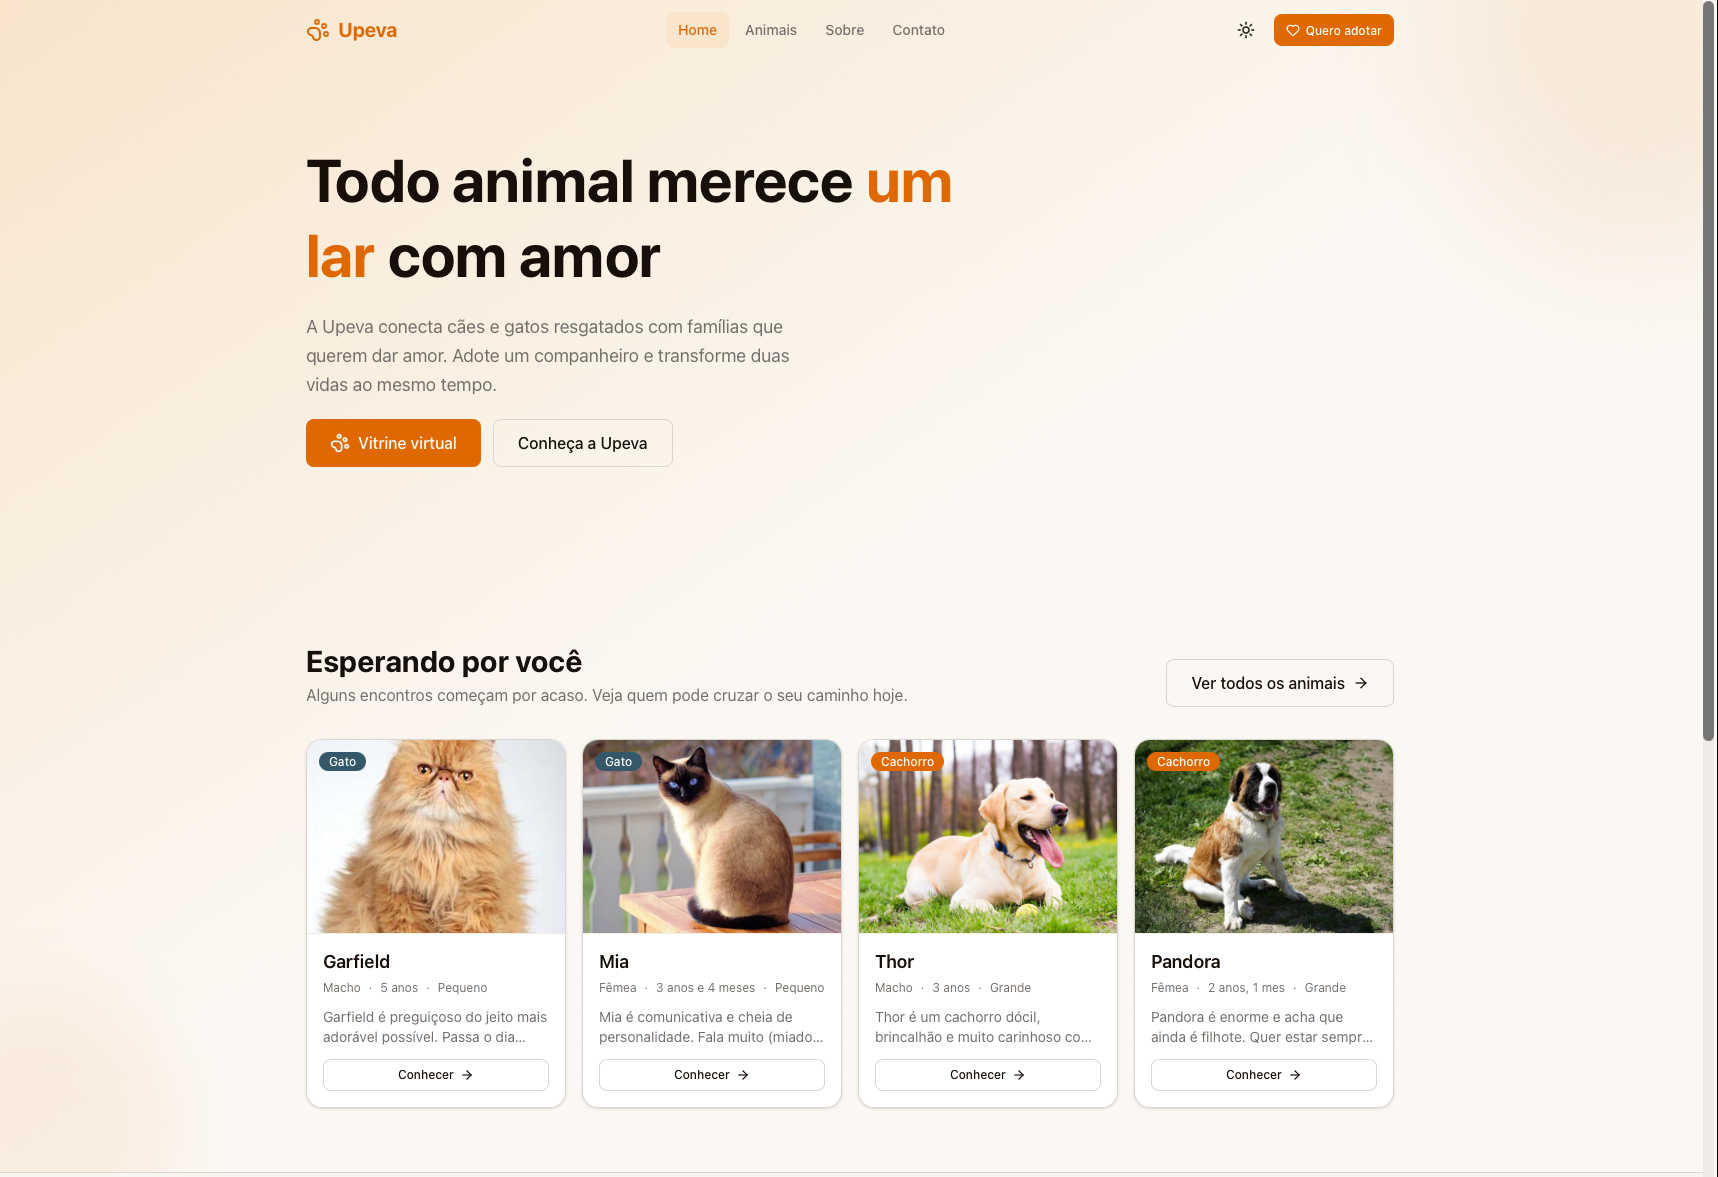
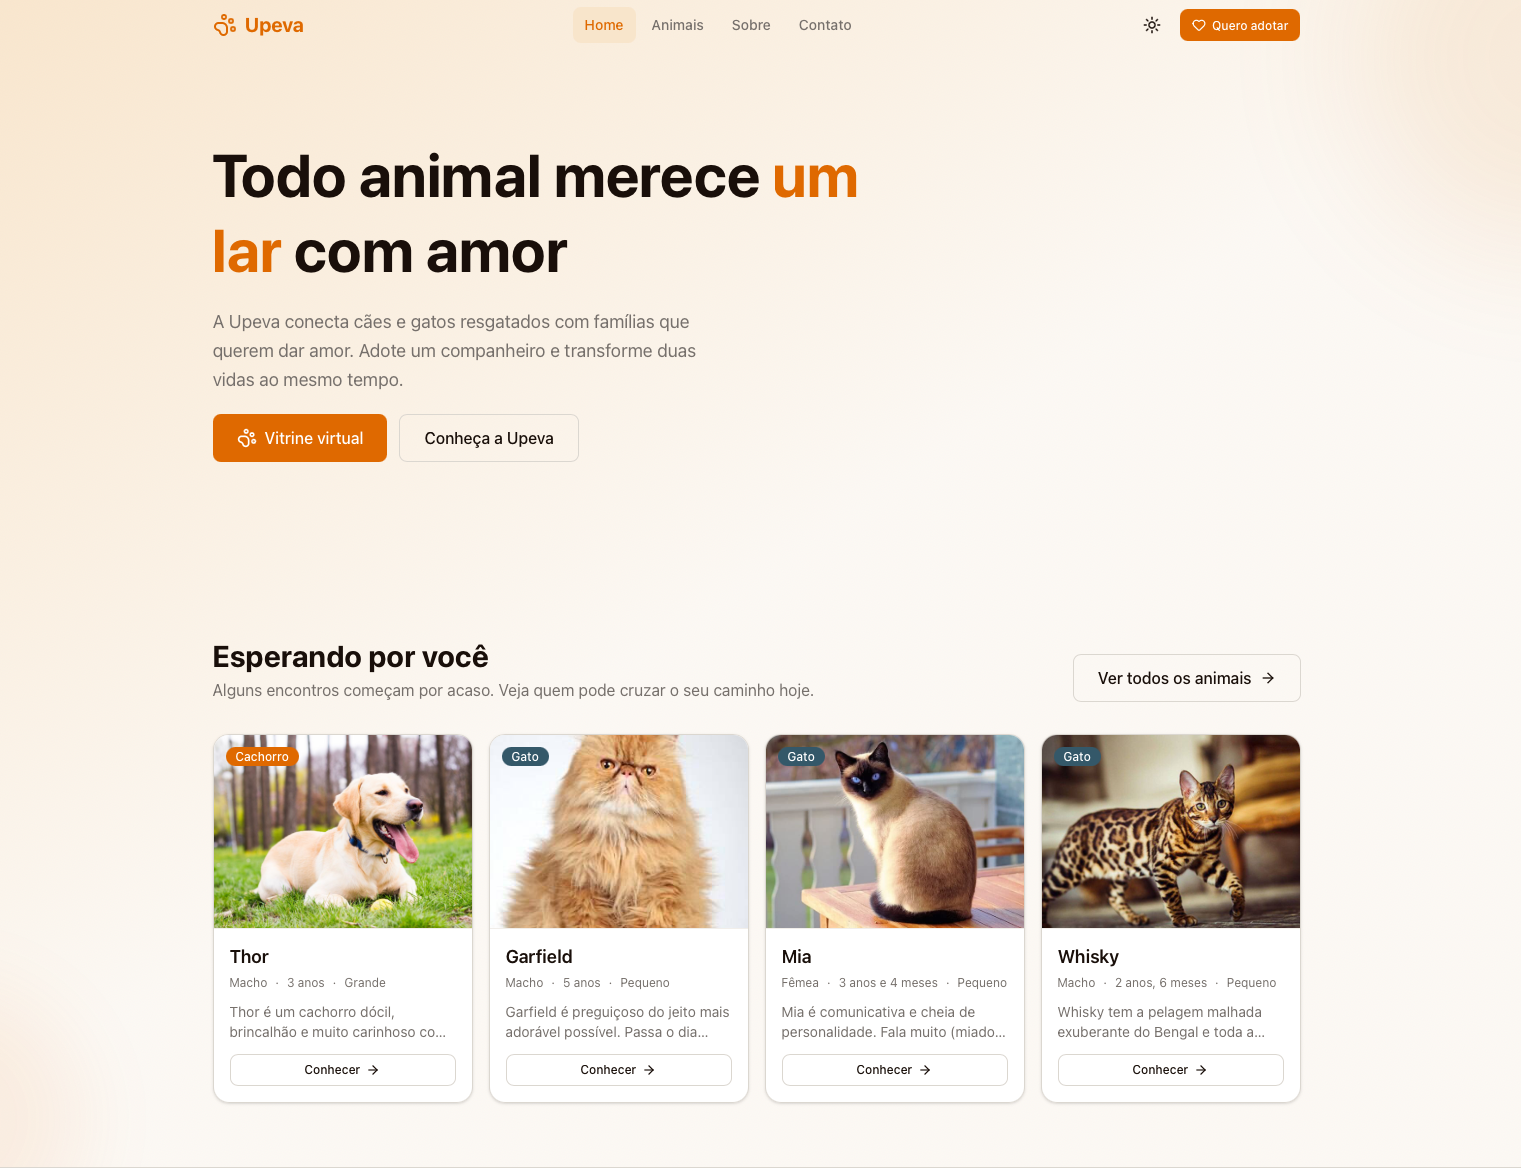
feat: add browser chrome mockup to project card images
- Add BrowserChrome overlay (traffic lights + live URL bar) on project screenshots
- Fix card hover flicker by separating CSS hover from Framer Motion y animation
- Update project screenshot assets
- Minor description copy tweaks

diff --git a/src/components/sections/Projects.tsx b/src/components/sections/Projects.tsx
@@ -3,6 +3,22 @@ import { HiArrowTopRightOnSquare } from 'react-icons/hi2'
 import { SiGithub } from 'react-icons/si'
 import { projects, personal } from '../../data/portfolio'
 
+function BrowserChrome({ url }: { url?: string }) {
+  const displayUrl = url ? url.replace(/^https?:\/\//, '') : 'localhost:5173'
+  return (
+    <div className="absolute top-0 left-0 right-0 z-10 flex items-center gap-2 px-3 h-7 bg-surface/90 backdrop-blur-sm border-b border-border">
+      <div className="flex items-center gap-1.5 shrink-0">
+        <span className="w-2.5 h-2.5 rounded-full bg-red-400/80" />
+        <span className="w-2.5 h-2.5 rounded-full bg-amber-400/80" />
+        <span className="w-2.5 h-2.5 rounded-full bg-emerald-400/80" />
+      </div>
+      <div className="flex-1 mx-2 px-2.5 py-0.5 rounded bg-surface2 border border-border text-[10px] font-mono text-muted truncate text-center">
+        {displayUrl}
+      </div>
+    </div>
+  )
+}
+
 export default function Projects() {
   const hasProjects = projects.length > 0
 
@@ -29,22 +45,24 @@ export default function Projects() {
         {hasProjects ? (
           <div className="grid md:grid-cols-2 lg:grid-cols-3 gap-6">
             {projects.map((project, i) => (
-              <motion.article
-                key={project.title}
-                className="group flex flex-col rounded-2xl bg-surface border border-border overflow-hidden hover:border-brand/40 transition-all duration-300"
-                initial={{ opacity: 0, y: 40 }}
-                whileInView={{ opacity: 1, y: 0 }}
-                viewport={{ once: true }}
-                transition={{ duration: 0.5, delay: i * 0.1 }}
-                whileHover={{ y: -6, transition: { duration: 0.2 } }}
-              >
+              /* Wrapper CSS para o hover translate — separado do motion para
+                 evitar conflito de y entre whileInView e whileHover */
+              <div key={project.title} className="group hover:-translate-y-1.5 transition-transform duration-200">
+                <motion.article
+                  className="flex flex-col h-full rounded-2xl bg-surface border border-border overflow-hidden hover:border-brand/40 transition-colors duration-300"
+                  initial={{ opacity: 0, y: 20 }}
+                  whileInView={{ opacity: 1, y: 0 }}
+                  viewport={{ once: true }}
+                  transition={{ duration: 0.5, delay: i * 0.1, ease: [0.22, 1, 0.36, 1] }}
+                >
                 {/* Imagem do projeto */}
                 {project.image && (
-                  <div className="aspect-video overflow-hidden bg-surface2">
+                  <div className="relative aspect-video overflow-hidden bg-surface2">
+                    <BrowserChrome url={project.live} />
                     <img
                       src={project.image}
                       alt={project.title}
-                      className="w-full h-full object-cover group-hover:scale-105 transition-transform duration-500"
+                      className="w-full h-full object-cover object-top group-hover:scale-105 transition-transform duration-500"
                     />
                   </div>
                 )}
@@ -93,7 +111,8 @@ export default function Projects() {
                     )}
                   </div>
                 </div>
-              </motion.article>
+                </motion.article>
+              </div>
             ))}
           </div>
         ) : (

diff --git a/src/data/portfolio.ts b/src/data/portfolio.ts
@@ -93,7 +93,7 @@ export const projects: Project[] = [
   // },
   {
     title: 'UPEVA - União pela vida animal',
-    description: 'Plataforma web para divulgação de animais, envio de candidaturas de adoção e operação interna da ONG.',
+    description: 'Plataforma web para divulgação de animais, envio de candidaturas de adoção e operação interna da ONG - Ainda em desenvolvimento.',
     tech: ['React', 'TypeScript', 'Tailwind CSS 4', 'Firebase (Hosting, Firestore, Auth, Storage, Functions)'],
     github: 'https://github.com/PedroBolson/Upeva',
     live: 'https://upevapets.web.app',
@@ -101,7 +101,7 @@ export const projects: Project[] = [
   },
   {
     title: 'Eco Recicla - Plataforma de Reciclagem Inteligente',
-    description: 'Plataforma web que gamifica o processo de reciclagem, permitindo que usuários ganhem pontos por ações sustentáveis - Projeto DEMO para faculdade.',
+    description: 'Plataforma web que gamifica o processo de reciclagem, permitindo que usuários ganhem pontos por ações sustentáveis - Projeto DEMO.',
     tech: ['React', 'TypeScript', 'Tailwind CSS 4', 'Firebase (Hosting, Firestore, Auth, Functions)'],
     github: 'https://github.com/PedroBolson/Interface-Reciclagem',
     live: 'https://recicla-caxias.web.app',